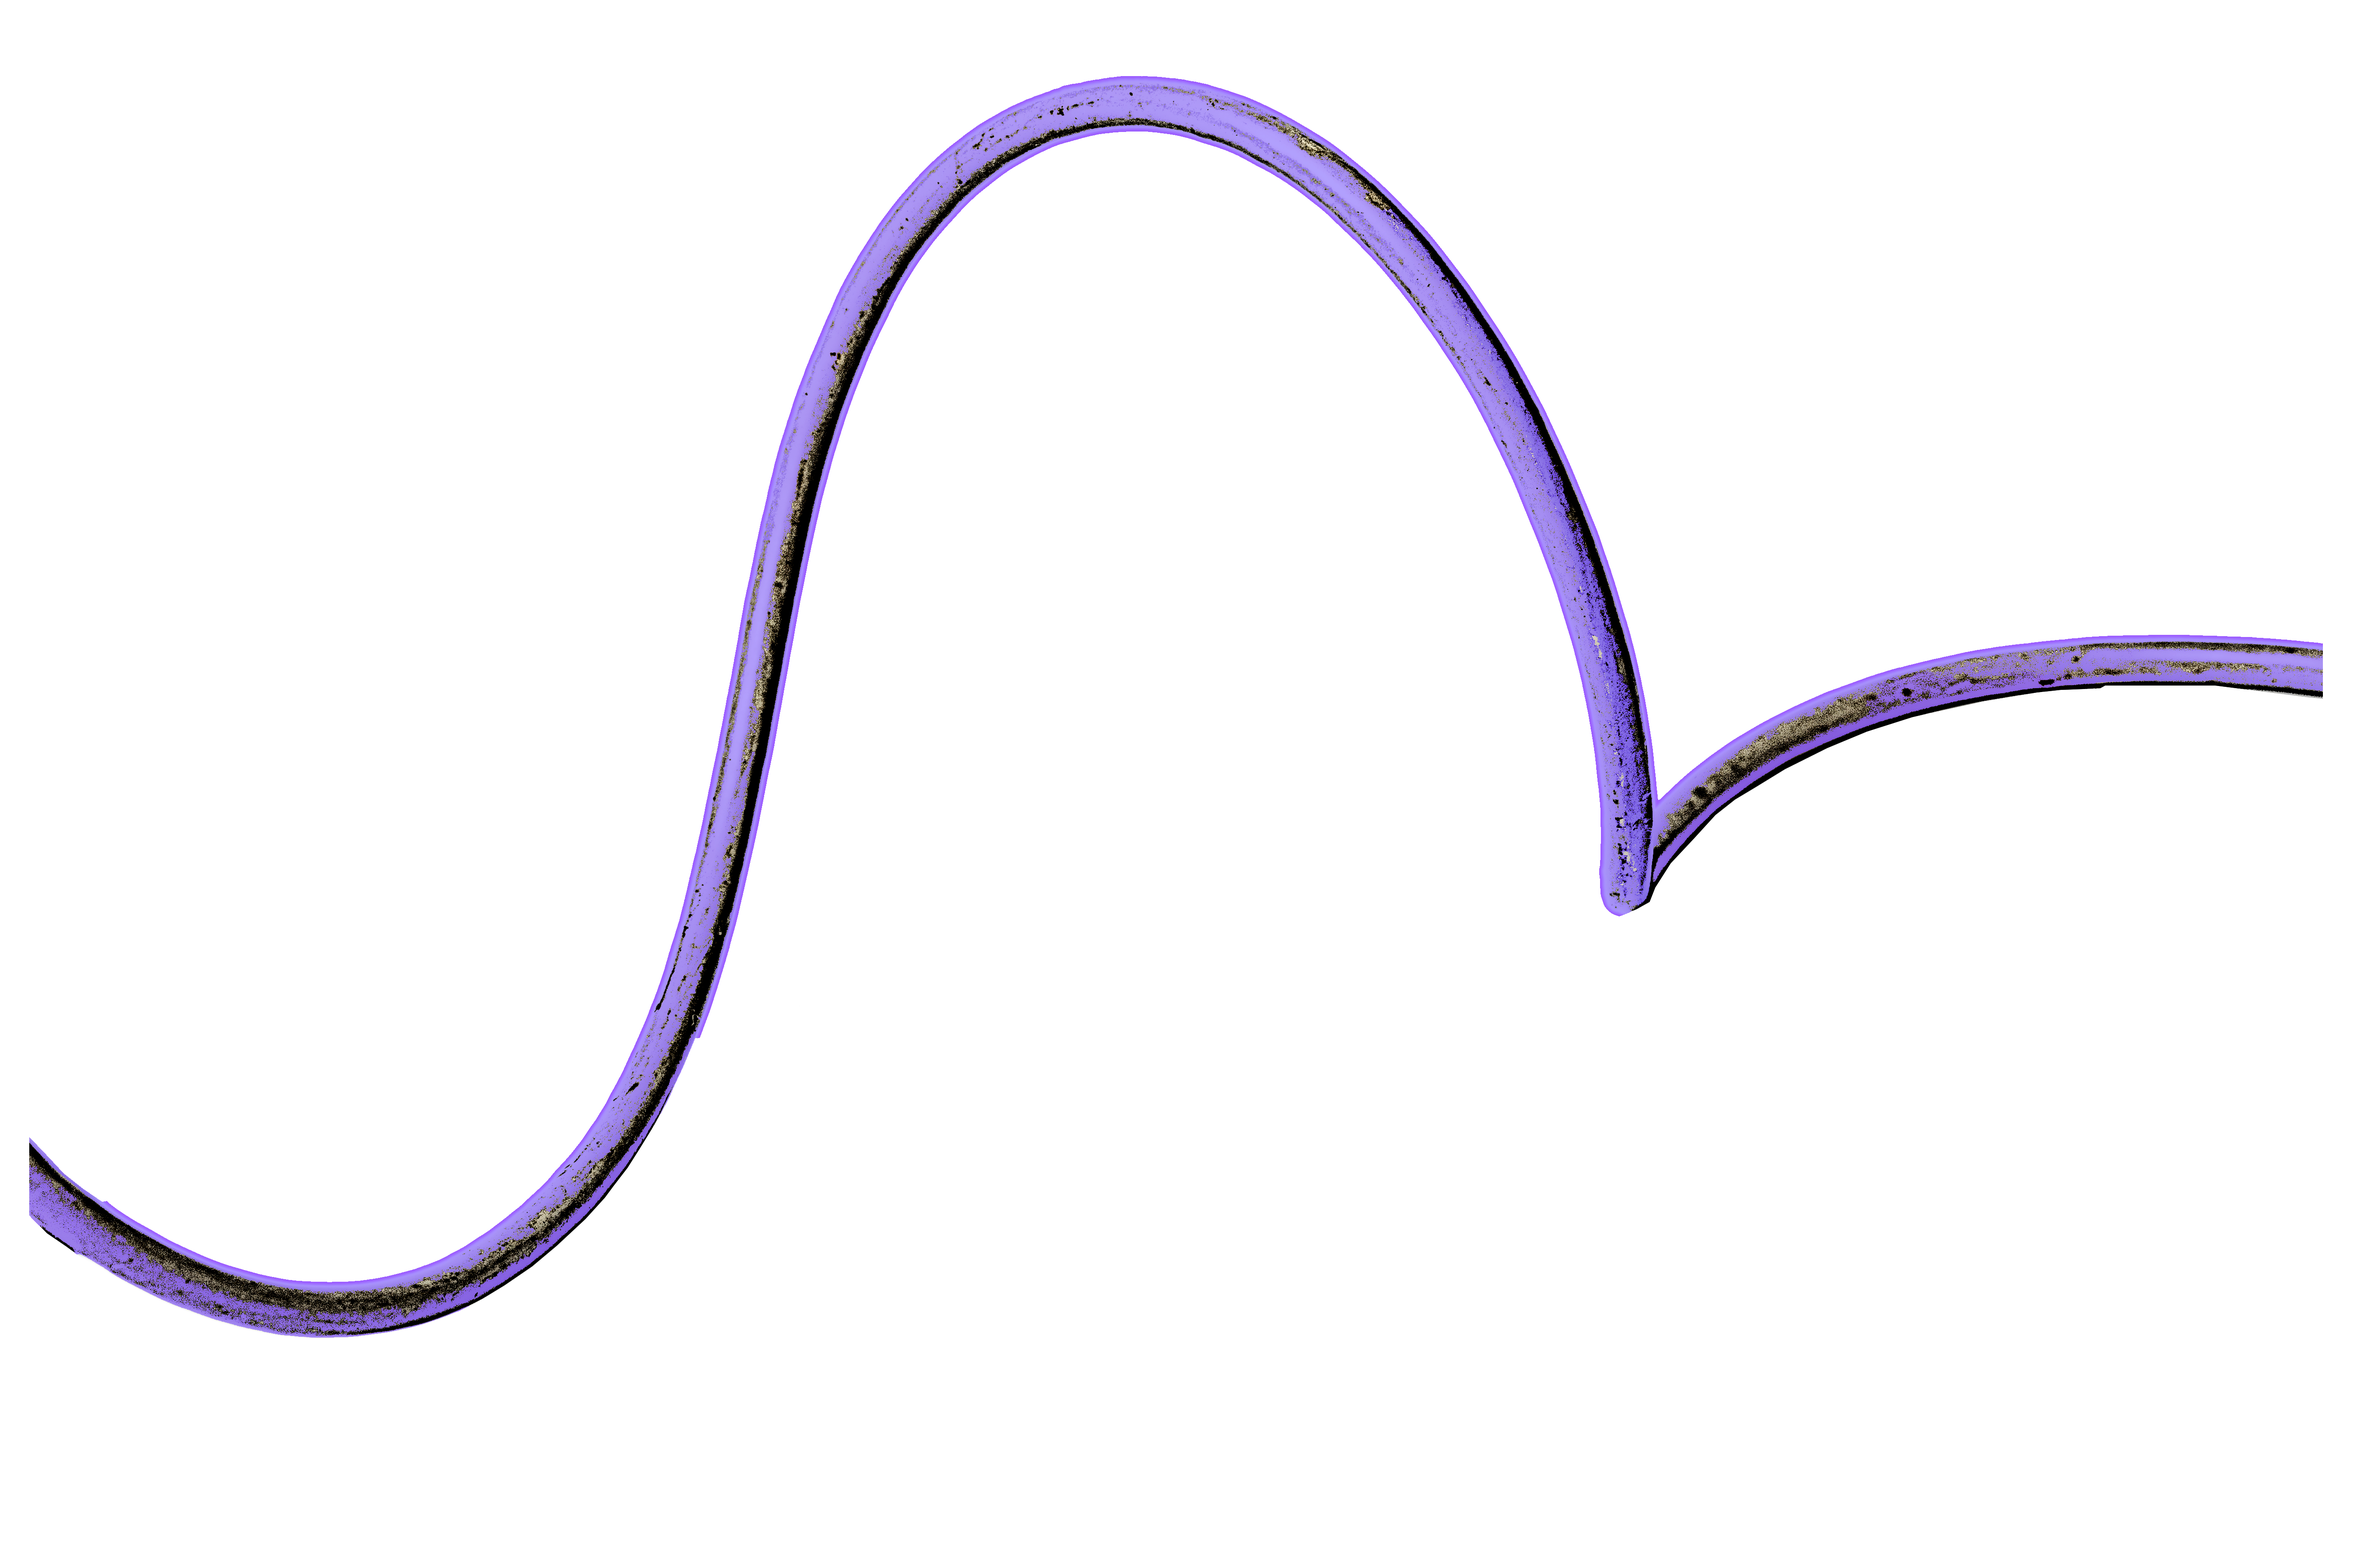
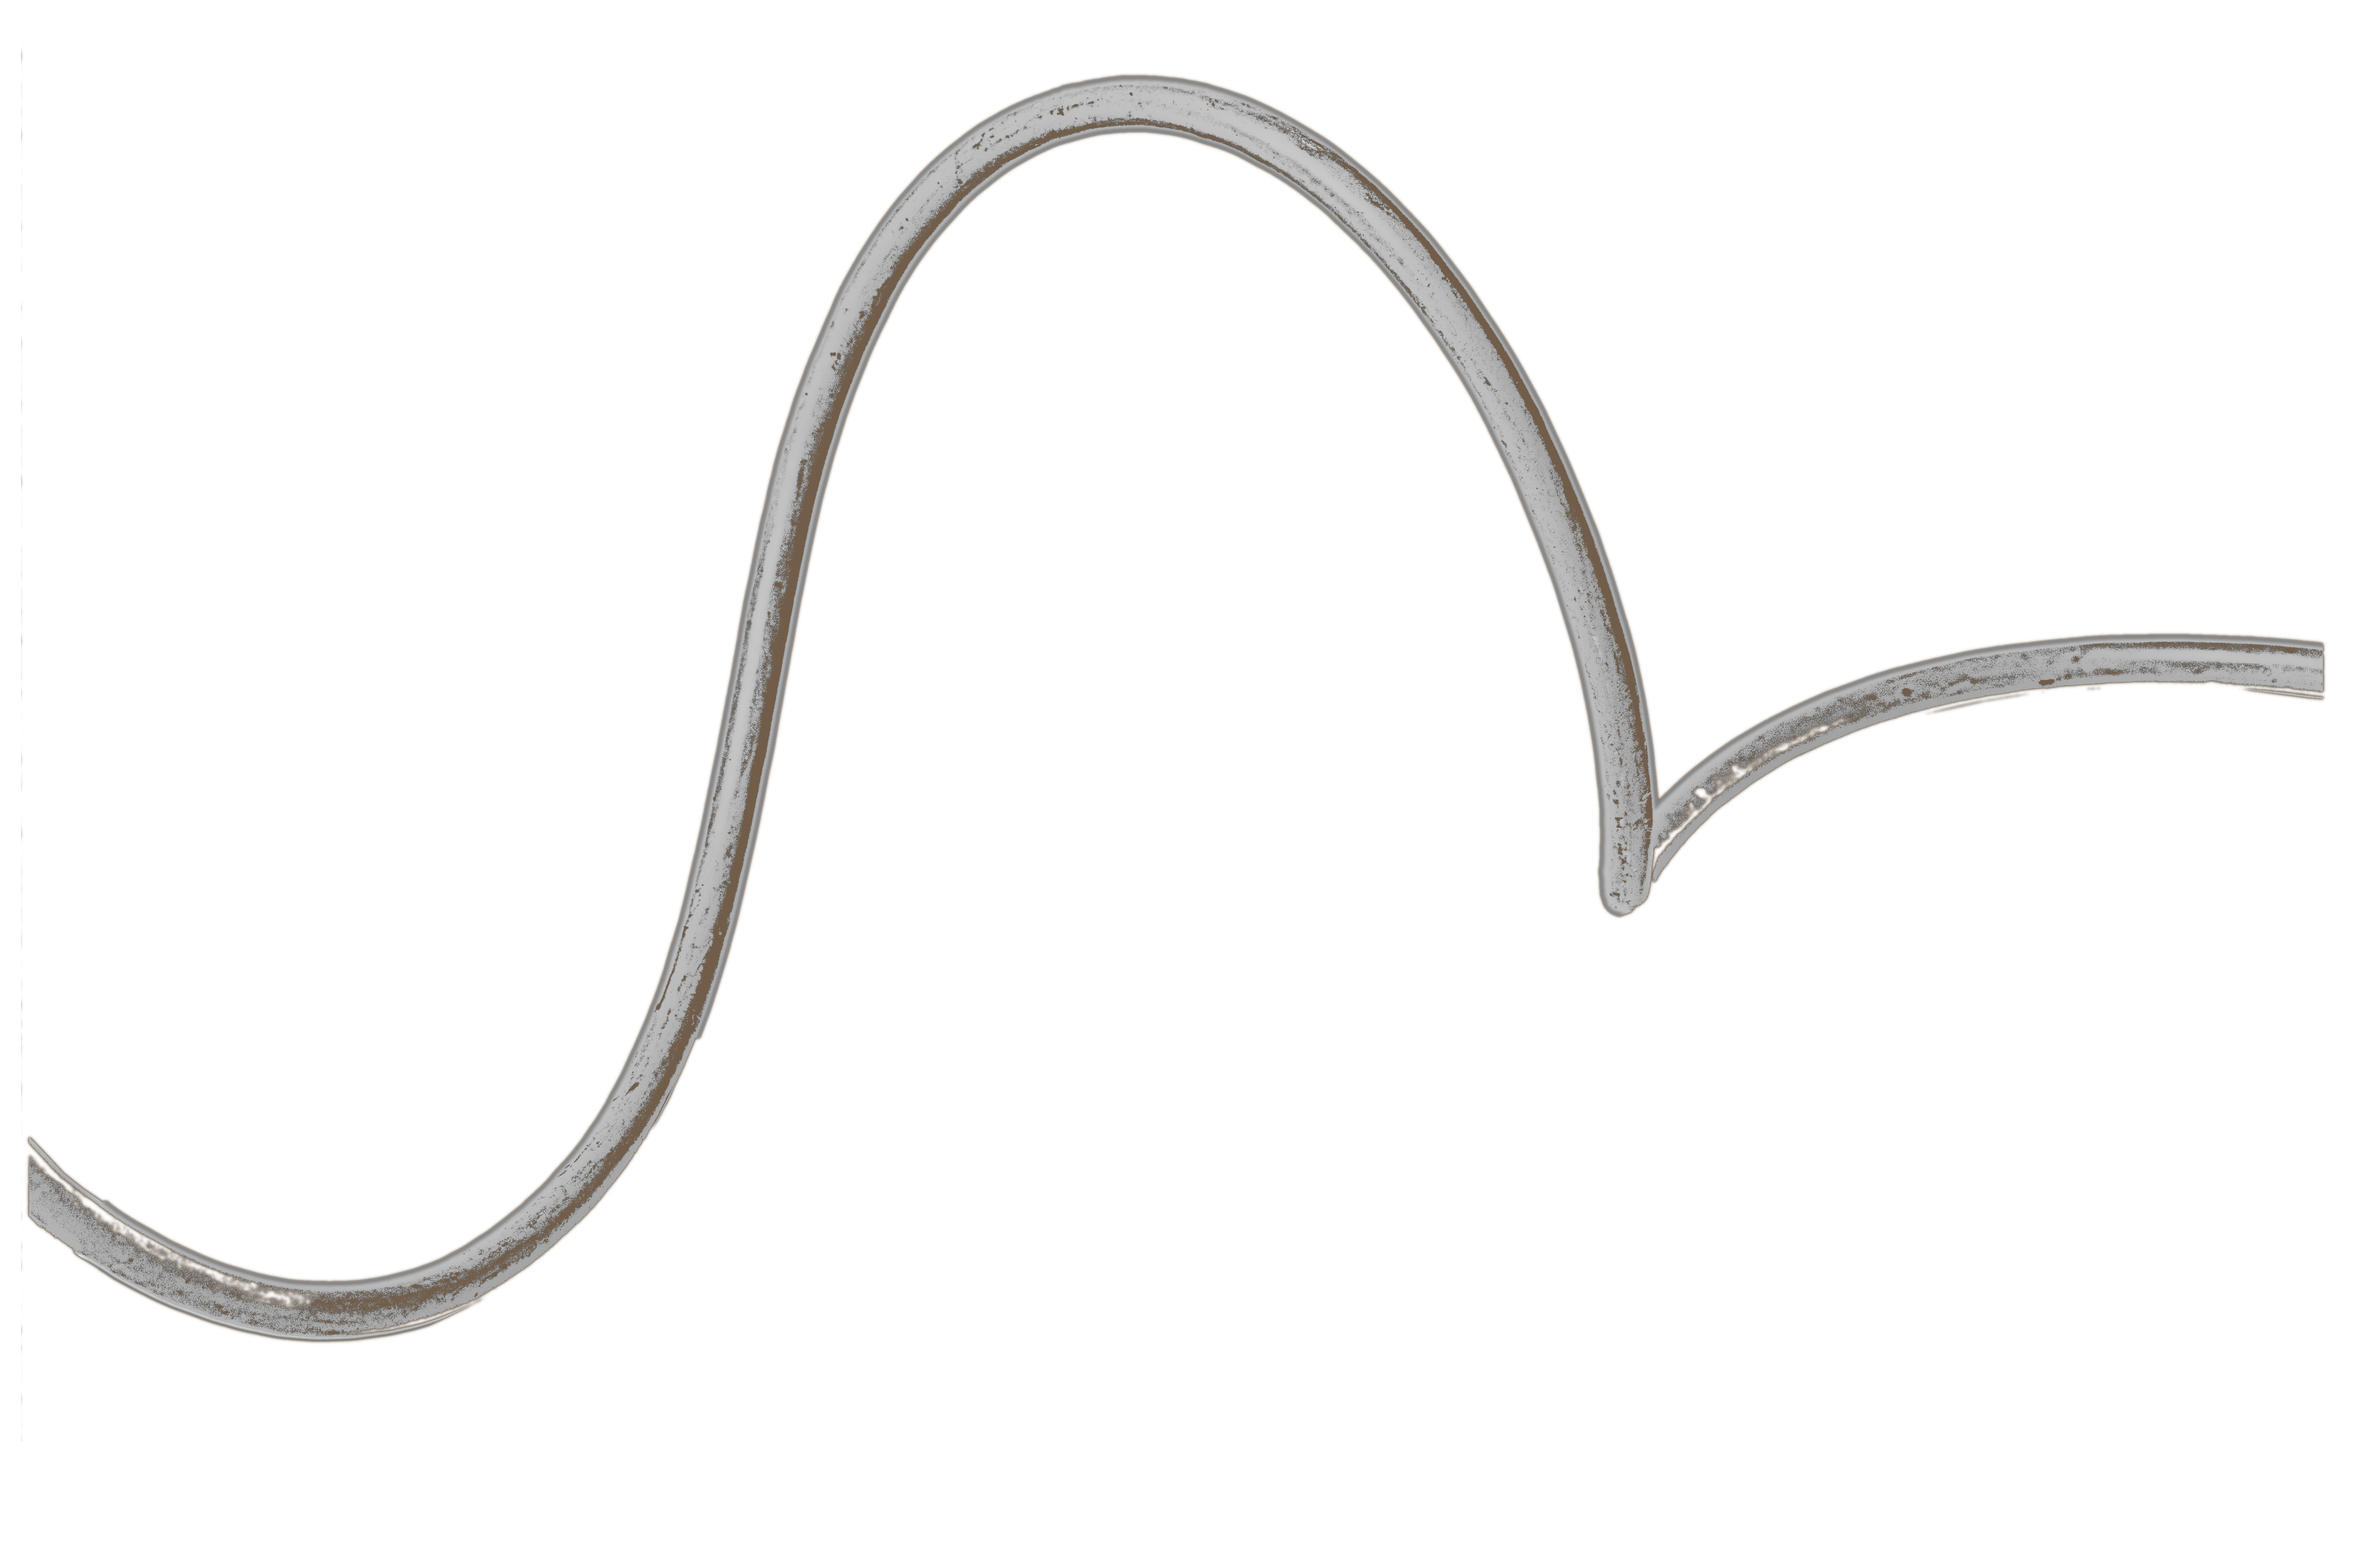
updated desktop layout for shows and contact page

Changed region(s): [[0.0, 0.0312, 1.0, 0.875]]

diff --git a/assets/css/style.css b/assets/css/style.css
@@ -295,10 +295,6 @@ h3 {
     width: 100%;
     margin-top: -12%;
     z-index: 1001;
-  
-    
-    
-    
 }
 
 .social-links div {
@@ -306,9 +302,6 @@ h3 {
     flex-direction: row;
     margin-top: 13%;
   
-    
-    
-   
 }
 
 .social-button {
@@ -1061,6 +1054,15 @@ h1.past-shows-header {
 
 /* CONTACT PAGE */
 
+
+
+
+.contact-header {
+    font-size: 3rem;
+    margin-top: -15%;
+
+}
+
 .contact-info {
     display: flex;
     justify-content: center;
@@ -1089,6 +1091,12 @@ h1.past-shows-header {
 
 .mal-instagram {
     margin-top: -8%;
+}
+
+
+.mainpage-link-contact {
+     font-size: 0.5rem;
+     display: flex;
 }
 
 /* MAIN PAGE BUTTON */
@@ -1690,8 +1698,7 @@ h2.no-AI-disclaimer {
 .desktop-videos-container {
     display: flex;
     flex-direction: row;
-    
-    
+   
 }
 
 
@@ -1829,6 +1836,8 @@ h2.no-AI-disclaimer {
 
 
 
+
+
 /* SHOWS PAGE */
 
 
@@ -1870,6 +1879,7 @@ h1.past-shows-header {
     font-size: 8rem;
     text-align: center;
     margin-top: 10%;
+    margin-bottom: 5vh;
     
 }
 
@@ -1923,6 +1933,49 @@ h1.past-shows-header {
 
 }
 
+
+
+/* CONTACT PAGE */
+
+.contact-header {
+    font-size: 6rem;
+    margin-top: -22%;
+
+}
+
+.contact-info {
+    display: flex;
+    justify-content: center;
+    font-family: "Silkscreen", sans-serif;
+    font-weight: 400;
+    font-style: normal;
+    flex-direction: row;
+    align-items: center;
+    font-size: 2rem;
+   
+}
+
+.contact-button {
+    color: #b33b3b; 
+    margin: 10%;
+    margin-top: 0;
+    font-size: 3rem;
+
+}
+
+.mainpage-link-contact {
+    font-size: 0.7rem;
+    display: flex;
+    margin-top: -20%;
+    
+}
+
+.contact-full {
+    border-color: #2dc0ec;
+    border-radius: 25%;
+    border-style: groove;
+    margin: 3vw;
+}
 
 
 }

diff --git a/contact.html b/contact.html
@@ -23,20 +23,20 @@
 
 <body>
     
-
+<div class="contact-full">
 
 <header>
-    <h3 style="font-size: 3rem; margin-top: -15%">CONTACT</h3>
+    <h3 class="contact-header">CONTACT</h3>
 </header>
 
 <div class="contact-info">
 
-    <a href="mailto:somekindofruse@gmail.com" class="contact-button">
-        E-Mail
-    </a>
-
      <a href="https://www.instagram.com/somekindof.ruse" class="contact-button">
         Instagram
+    </a>
+
+    <a href="mailto:somekindofruse@gmail.com" class="contact-button">
+        E-Mail
     </a>
 
     <a href="https://www.facebook.com/somekindofruse/" class="contact-button">
@@ -59,7 +59,7 @@
 -->
 
 
-   <div class="mainpage-link" style="font-size: 0.5rem">
+        <div class="mainpage-link-contact">
 
             <a href="index.html" class="mainpage-button">
             Main Page
@@ -69,7 +69,7 @@
 
 
        
-
+</div>
 
 
 </body>

diff --git a/shows.html b/shows.html
@@ -33,9 +33,7 @@
      .
     </h1>
     <h3 class="next-show-description">
-        Pool House on October 30th with The Unfamiliars For  
-        <br>
-        👻Halloween👻
+        To Be Announced
     </h3>
 
 
@@ -67,6 +65,11 @@
 
     <div class="show-poster-container">
 
+
+         <div class="show-poster">
+            <img src="images/HaloweenShow.JPG" style="width: 100%;">
+        </div>
+        
         <div class="show-poster">
             <img src="images/July 17th L'Escogriffe Show Poster.jpg" style="width: 100%;">
         </div>
